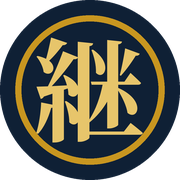
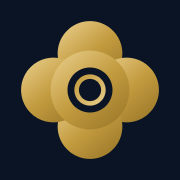
アイコンとファビコンを木瓜紋の意匠に刷新
「継」の漢字を使わず、家紋の系譜で和モダンに寄せた。
木瓜（もっこう）は四方に張り出した輪郭を持つ古典紋で、
「子孫繁栄」「家が続く」の意を担ってきたため、事業承継の紋として意味が重なる。

- 輪郭は全サイズ共通。48px以上は中心に細い輪を入れて密度を持たせ、
  16/32px は輪が滲むため丸に置き換えた
- 配色はコーポレートカラー（紺 #0A1424 / 金 #C39B3F）
- apple-touch-icon は四隅まで塗る。iOS が自前で角丸マスクをかけるため
- favicon.ico は 16/32/48 の3サイズを収録
- 参照タグを整理し ?v=3 を付与。ブラウザの旧アイコンのキャッシュ対策

diff --git a/partner.html b/partner.html
@@ -7,10 +7,12 @@
 <meta name="description" content="売らなければ生きられない——その構造を変えるために、各地に立つ仲間を探しています。日本初の認定パートナー第一期募集。初期投資ゼロ、実務はAIエージェントが代行するため未経験・副業からでも始められます。">
 <meta name="robots" content="index, follow">
 <link rel="canonical" href="https://www.fuku-tsugu.jp/partner">
-<link rel="icon" href="/favicon.ico" sizes="any">
-<link rel="icon" type="image/png" href="/favicon-512.png">
-<link rel="icon" type="image/svg+xml" href="favicon.svg">
-<link rel="apple-touch-icon" href="/apple-touch-icon.png">
+<link rel="icon" href="/favicon.ico?v=3" sizes="any">
+<link rel="icon" type="image/svg+xml" href="/favicon.svg?v=3">
+<link rel="icon" type="image/png" sizes="16x16" href="/favicon-16.png?v=3">
+<link rel="icon" type="image/png" sizes="32x32" href="/favicon-32.png?v=3">
+<link rel="icon" type="image/png" sizes="192x192" href="/favicon-192.png?v=3">
+<link rel="apple-touch-icon" sizes="180x180" href="/apple-touch-icon.png?v=3">
 
 <meta property="og:type" content="website">
 <meta property="og:site_name" content="TsuguAi -継-">

diff --git a/index.html b/index.html
@@ -8,10 +8,12 @@
 <meta name="robots" content="index, follow">
 <meta name="google-site-verification" content="T-_mOmDc7onO2FWyD5-ocFWxblI2OrbaJ0izFI3A6F4">
 <link rel="canonical" href="https://www.fuku-tsugu.jp/">
-<link rel="icon" href="/favicon.ico" sizes="any">
-<link rel="icon" type="image/png" href="/favicon-512.png">
-<link rel="icon" type="image/svg+xml" href="favicon.svg">
-<link rel="apple-touch-icon" href="/apple-touch-icon.png">
+<link rel="icon" href="/favicon.ico?v=3" sizes="any">
+<link rel="icon" type="image/svg+xml" href="/favicon.svg?v=3">
+<link rel="icon" type="image/png" sizes="16x16" href="/favicon-16.png?v=3">
+<link rel="icon" type="image/png" sizes="32x32" href="/favicon-32.png?v=3">
+<link rel="icon" type="image/png" sizes="192x192" href="/favicon-192.png?v=3">
+<link rel="apple-touch-icon" sizes="180x180" href="/apple-touch-icon.png?v=3">
 
 <!-- OGP（SNSシェア時の表示） -->
 <meta property="og:type" content="website">
